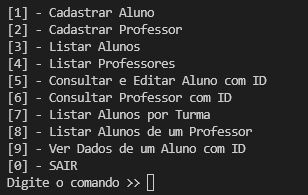
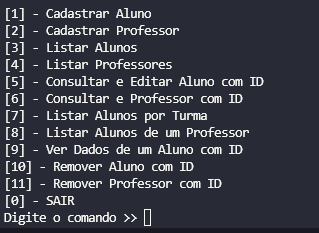
Add files via upload

Changed region(s): [[0.0, 0.0308, 0.8766, 0.9846], [0.7597, 0.7385, 0.8182, 0.8]]

diff --git a/main.py b/main.py
@@ -14,10 +14,12 @@ def mostraOpcoes():
     print('[3] - Listar Alunos')
     print('[4] - Listar Professores')
     print('[5] - Consultar e Editar Aluno com ID')
-    print('[6] - Consultar Professor com ID')
+    print('[6] - Consultar e Professor com ID')
     print('[7] - Listar Alunos por Turma')
     print('[8] - Listar Alunos de um Professor')
     print('[9] - Ver Dados de um Aluno com ID')
+    print('[10] - Remover Aluno com ID')
+    print('[11] - Remover Professor com ID')
     print('[0] - SAIR')
 
 
@@ -27,6 +29,7 @@ def mostraErroNumero():
 
 
 def pedeID():
+    """Faz verificação se o input será do tipo int, caso contrário trata o ValueError e retorna None"""
     try:
         index = int(input('Digite o número do ID: '))
         return index
@@ -82,9 +85,21 @@ def editarStatusAluno(index):
         print('Opção não existe.')
 
 
-def mostraDadosAlunoComOpcoes(index):
+def editarNomeProfessor(index):
+    nome = input('Digite o nome a ser mudado: ')
+    esc.mudarNomeProfessor(index, nome)
+    print(f'Professor (ID: {index}) teve seu nome alterado para {nome}.')
+
+
+def editarEmailProfessor(index):
+    email = pedeEmail()
+    esc.mudarEmailProfessor(index, email)
+    print(f'Professor (ID: {index}) teve seu email alterado para {email}.')
+
+
+def mostraAlunoComOpcoes(index):
     if index != None:
-        if esc.listarAlunoComIndex(index):
+        if esc.listarAlunoIndex(index):
             comando = int(input('Deseja editar o aluno? [1] - Sim | [0] - Não\nDigite o comando >> '))
             if comando == 1:
                 print('Você quer editar:\n[1] - Nome | [2] - Email | [3] - Turma | [4] - Turno | [5] - Status')
@@ -108,6 +123,25 @@ def mostraDadosAlunoComOpcoes(index):
                     print('Opção não existe, voltando ao menu principal')
             else:
                 pass # Não fazer nada
+
+
+def mostraProfessorComOpcoes(index):
+    if index != None:
+        if esc.listarProfessorIndex(index):
+            comando = int(input('Deseja editar o professor? [1] - Sim | [0] - Não\nDigite o comando >> '))
+            if comando == 1:
+                print('Você quer editar:\n[1] - Nome | [2] - Email')
+                comando = int(input('Digite o comando >> '))
+                # Muda nome do professor
+                if comando == 1:
+                    editarNomeProfessor(index)
+                # Muda email do professor
+                elif comando == 2:
+                    editarEmailProfessor(index)
+                else:
+                    print('Opção não existe, voltando ao menu principal')
+            else:
+                pass 
 
 
 """
@@ -146,26 +180,36 @@ if __name__ == '__main__':
         elif comando == 5:
             index = pedeID()
             if index != None:
-                mostraDadosAlunoComOpcoes(index)
+                mostraAlunoComOpcoes(index)
 
         elif comando == 6:
             index = pedeID()
             if index != None:
-                esc.listarProfessorComIndex(index)
+                esc.listarProfessorIndex(index)
 
         elif comando == 7:
             codigo = input('Digite o código da turma: ')
-            esc.listarAlunosPorTurma(codigo)
+            esc.listarAlunosTurma(codigo)
 
         elif comando == 8:
             index = pedeID()
             if index != None:
-                esc.listarAlunosDoProfessor(index)
+                esc.listarAlunosProfessor(index)
 
         elif comando == 9:
             index = pedeID()
             if index != None:
-                esc.listarDadosAlunoComIndex(index)
+                esc.listarDadosAlunoIndex(index)
+
+        elif comando == 10:
+            index = pedeID()
+            if index != None:
+                esc.removeAluno(index)
+
+        elif comando == 11:
+            index = pedeID()
+            if index != None:
+                esc.removeProfessor(index)
 
         elif comando == 0:
             exit()

diff --git a/escola.py b/escola.py
@@ -17,7 +17,7 @@ class Escola(object):
         return self.__professores
 
     def erroIndex(self, index):
-        return f"Não há entidade com ID(index): '{index}' na lista."
+        return f"Não há entidade com ID(index): '{index}' no sistema."
 
 
     def adicionaProfessor(self, professor):
@@ -62,14 +62,15 @@ class Escola(object):
             print('Ainda não há alunos registrados no sistema.')
         
 
-    def listarProfessorComIndex(self, index):
+    def listarProfessorIndex(self, index):
         try:
             print(self.professores[index])
+            return True
         except IndexError:
             print(self.erroIndex(index))
 
 
-    def listarAlunoComIndex(self, index):
+    def listarAlunoIndex(self, index):
         try:
             print(self.alunos[index])
             return True
@@ -77,21 +78,21 @@ class Escola(object):
             print(self.erroIndex(index))
 
 
-    def listarDadosAlunoComIndex(self, index):
+    def listarDadosAlunoIndex(self, index):
         try:
             print(self.alunos[index].__dados__())
         except IndexError:
             print(self.erroIndex(index))
 
 
-    def listarDadosProfessorComIndex(self, index):
+    def listarDadosProfessorIndex(self, index):
         try:
             print(self.professores[index].__dados__())
         except IndexError:
             print(self.erroIndex(index))
 
 
-    def listarAlunosPorTurma(self, codigo):
+    def listarAlunosTurma(self, codigo):
         for aluno in self.alunos:
             if aluno.turma == codigo:
                 print(aluno)
@@ -99,10 +100,10 @@ class Escola(object):
                 print(f'Não há aluno na turma {codigo}')
     
 
-    def listarAlunosDoProfessor(self, index):
+    def listarAlunosProfessor(self, index):
         try:
             for codigo in self.professores[index].turmas:
-                self.listarAlunosPorTurma(codigo)
+                self.listarAlunosTurma(codigo)
         except IndexError:
             print(self.erroIndex(index))
 
@@ -162,3 +163,16 @@ class Escola(object):
         except IndexError:
             print(self.erroIndex(index))
 
+    
+    def mudarNomeProfessor(self, index, nome):
+        try:
+            self.professores[index].nome = nome
+        except IndexError:
+            print(self.erroIndex(index))
+
+    
+    def mudarEmailProfessor(self, index, email):
+        try:
+            self.professores[index].email = email
+        except IndexError:
+            print(self.erroIndex(index))

diff --git a/comandos_registro.py b/comandos_registro.py
@@ -54,17 +54,15 @@ def registrarAluno():
 
 def registrarProfessor():
     """Pede os atributos com inputs e retorna um objeto tipo `Professor`"""
-    nome = input('Digite o nome do professor: ')
+    nome = pedeNome()
 
-    email = input('Digite o email do professor: ')
-    while not Email(email).valida():
-        email = input('Digite um email válido (@escola.pr.gov.br): ')
+    email = pedeEmail()
     
     qntTurmas = int(input('Digite quantas turmas o professor tem: '))
     while qntTurmas <= 0:
         qntTurmas = int(input('Digite uma quantidade válida: '))
     i = 0
-    while i < qntTurmas:
+    while i < qntTurmas and qntTurmas < 25:
         listaTurmas = []
         t = input('Digite o código da turma: ')
         listaTurmas.append(t)
